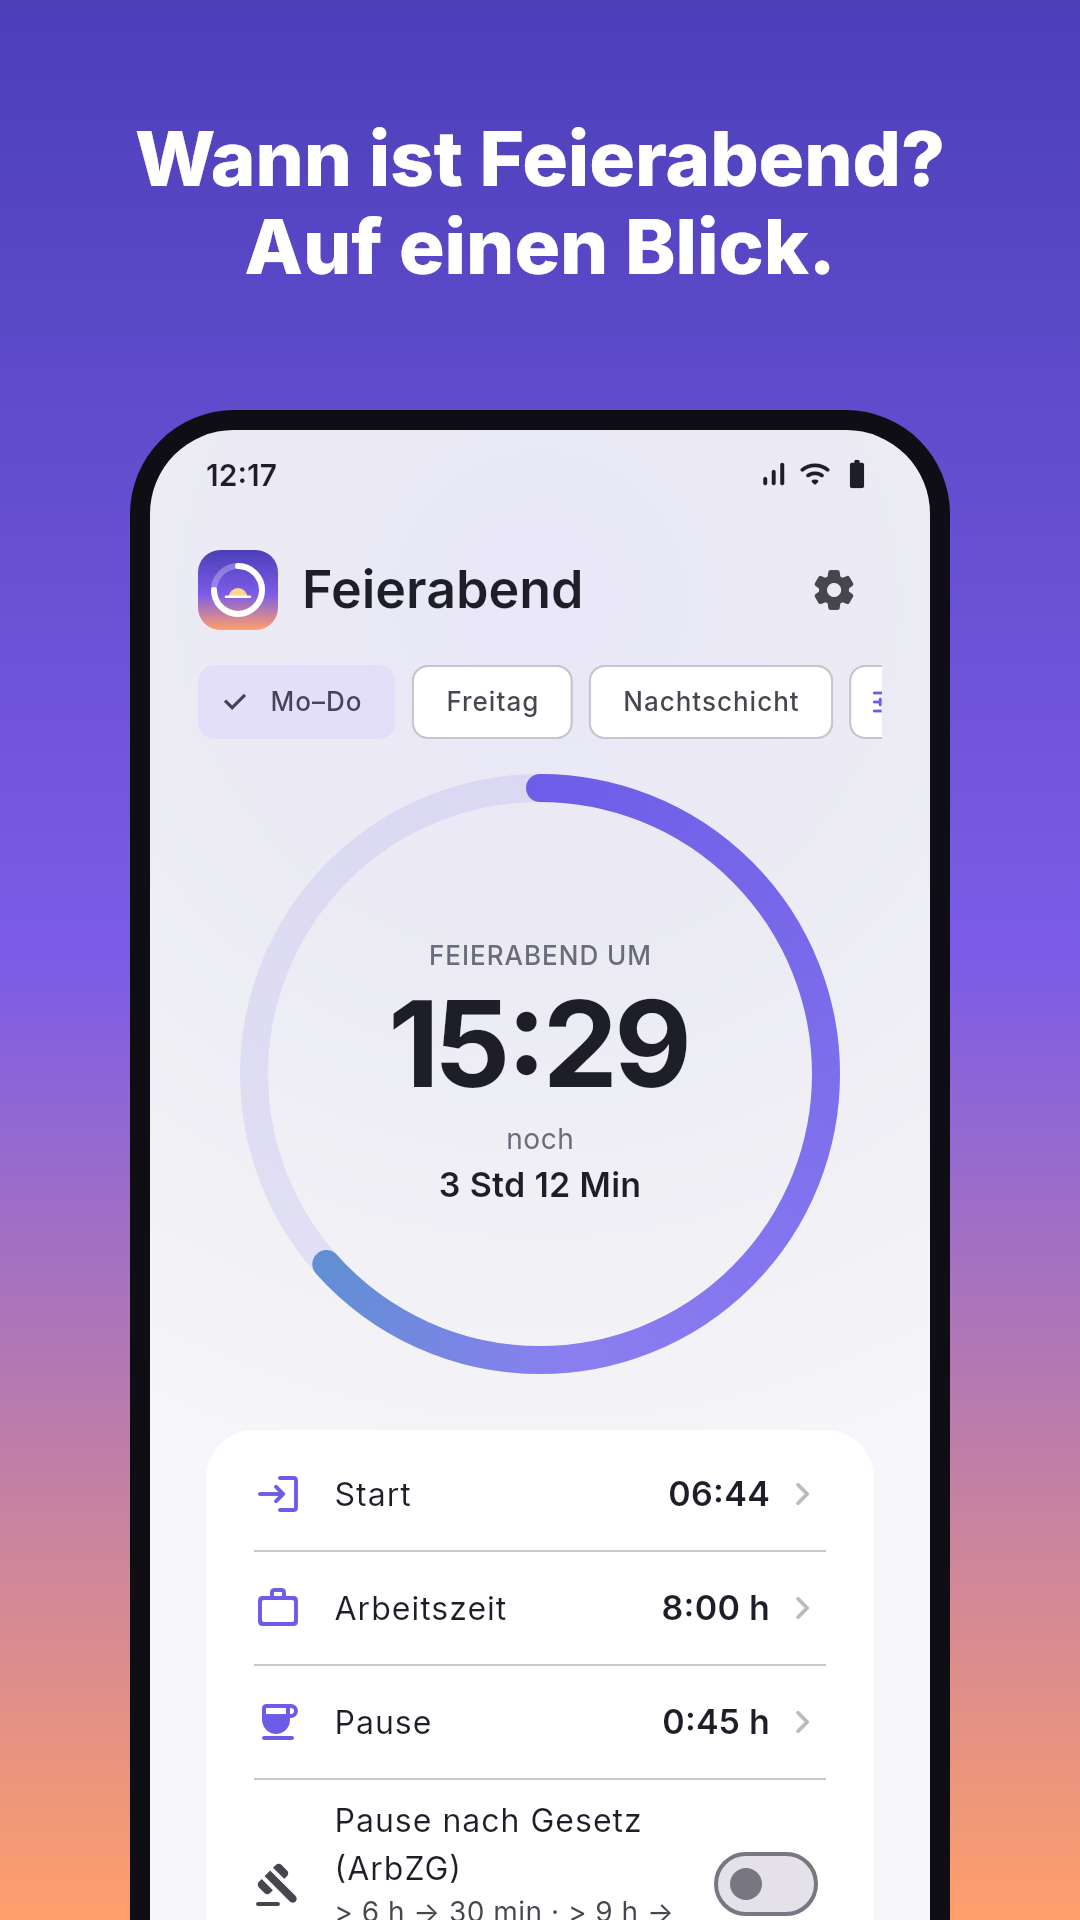
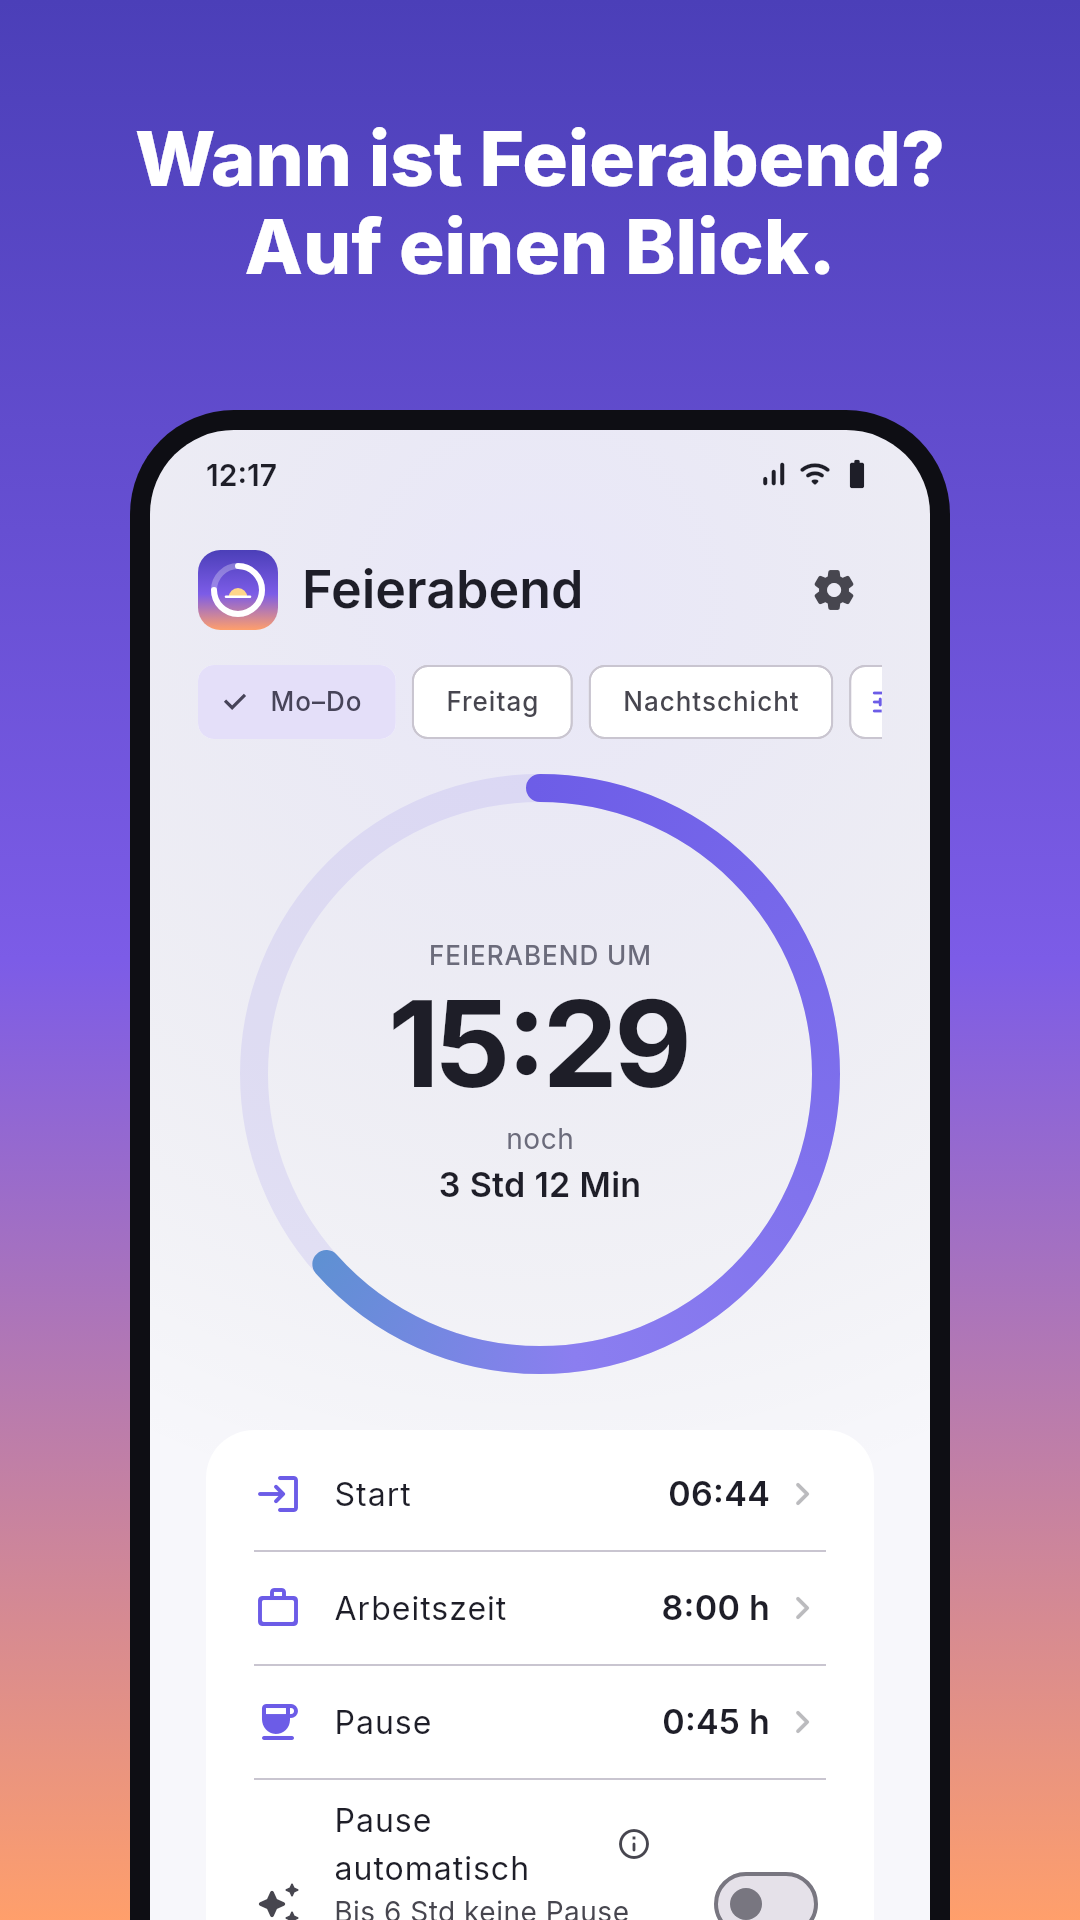
Pausen-Schalter freundlicher: „Pause automatisch" + Info-Fenster
- Statt „Pause nach Gesetz (ArbZG)" mit Paragraphen-Symbol: „Pause automatisch",
  Untertitel „Bis 6 Std keine Pause nötig – darüber passt sie sich an."
- ⓘ öffnet eine kurze Erklärung (bis 6 Std keine Pause, > 6 Std 30 Min,
  > 9 Std 45 Min, Grundlage § 4 ArbZG) – scrollbar auch auf kleinen Bildschirmen
- Paywall/Store-Texte entsprechend, Screenshots neu; 131 Tests grün

Claude-Session: https://claude.ai/code/session_01KcrAWKWuXtps6dG5YMC4Ev

Changed region(s): [[0.3056, 0.9375, 0.6111, 1.0], [0.6417, 0.9375, 0.7639, 1.0], [0.2444, 0.9688, 0.275, 1.0]]

diff --git a/lib/l10n/app_localizations.dart b/lib/l10n/app_localizations.dart
@@ -167,19 +167,19 @@ abstract class AppLocalizations {
   /// No description provided for @breakAuto.
   ///
   /// In de, this message translates to:
-  /// **'automatisch nach ArbZG'**
+  /// **'automatisch angepasst'**
   String get breakAuto;
 
   /// No description provided for @arbzgTitle.
   ///
   /// In de, this message translates to:
-  /// **'Pause nach Gesetz (ArbZG)'**
+  /// **'Pause automatisch'**
   String get arbzgTitle;
 
   /// No description provided for @arbzgSubtitle.
   ///
   /// In de, this message translates to:
-  /// **'> 6 h → 30 min · > 9 h → 45 min'**
+  /// **'Bis 6 Std keine Pause nötig – darüber passt sie sich an.'**
   String get arbzgSubtitle;
 
   /// No description provided for @presenceSummary.
@@ -551,7 +551,7 @@ abstract class AppLocalizations {
   /// No description provided for @paywallBenefitArbzg.
   ///
   /// In de, this message translates to:
-  /// **'Automatische Pause nach Arbeitszeitgesetz'**
+  /// **'Pause passt sich automatisch an'**
   String get paywallBenefitArbzg;
 
   /// No description provided for @paywallBenefitSupport.
@@ -949,6 +949,54 @@ abstract class AppLocalizations {
   /// In de, this message translates to:
   /// **'Wald'**
   String get designNameForest;
+
+  /// No description provided for @autoBreakInfoTooltip.
+  ///
+  /// In de, this message translates to:
+  /// **'Mehr Infos'**
+  String get autoBreakInfoTooltip;
+
+  /// No description provided for @autoBreakInfoTitle.
+  ///
+  /// In de, this message translates to:
+  /// **'So funktioniert die automatische Pause'**
+  String get autoBreakInfoTitle;
+
+  /// No description provided for @autoBreakInfoBody.
+  ///
+  /// In de, this message translates to:
+  /// **'Die App wählt die Pause passend zu deiner Arbeitszeit:'**
+  String get autoBreakInfoBody;
+
+  /// No description provided for @autoBreakUpTo6.
+  ///
+  /// In de, this message translates to:
+  /// **'Bis 6 Std Arbeit'**
+  String get autoBreakUpTo6;
+
+  /// No description provided for @autoBreakOver6.
+  ///
+  /// In de, this message translates to:
+  /// **'Mehr als 6 Std'**
+  String get autoBreakOver6;
+
+  /// No description provided for @autoBreakOver9.
+  ///
+  /// In de, this message translates to:
+  /// **'Mehr als 9 Std'**
+  String get autoBreakOver9;
+
+  /// No description provided for @autoBreakNone.
+  ///
+  /// In de, this message translates to:
+  /// **'keine Pause'**
+  String get autoBreakNone;
+
+  /// No description provided for @autoBreakLegal.
+  ///
+  /// In de, this message translates to:
+  /// **'Grundlage sind die Mindestpausen des deutschen Arbeitszeitgesetzes (§ 4 ArbZG). Die Pausenregel in deinem Betrieb kann abweichen.'**
+  String get autoBreakLegal;
 }
 
 class _AppLocalizationsDelegate

diff --git a/lib/features/home/widgets/auto_break_info_sheet.dart b/lib/features/home/widgets/auto_break_info_sheet.dart
@@ -1,0 +1,62 @@
+import 'package:flutter/material.dart';
+
+import '../../../core/formatting.dart';
+import '../../../l10n/l10n_ext.dart';
+
+/// Kurze Erklärung zur automatischen Pause – erst auf Wunsch (ⓘ), damit der
+/// Schalter selbst freundlich und schlicht bleibt.
+class AutoBreakInfoSheet extends StatelessWidget {
+  const AutoBreakInfoSheet({super.key});
+
+  static Future<void> show(BuildContext context) => showModalBottomSheet<void>(
+        context: context,
+        isScrollControlled: true,
+        builder: (_) => const AutoBreakInfoSheet(),
+      );
+
+  @override
+  Widget build(BuildContext context) {
+    final theme = Theme.of(context);
+    final l = context.l10n;
+    final u = context.units;
+
+    Widget rule(String when, String pause) => Padding(
+          padding: const EdgeInsets.symmetric(vertical: 8),
+          child: Row(
+            children: [
+              Expanded(child: Text(when, style: theme.textTheme.bodyLarge)),
+              Text(
+                pause,
+                style: theme.textTheme.titleMedium
+                    ?.copyWith(color: theme.colorScheme.primary),
+              ),
+            ],
+          ),
+        );
+
+    return SafeArea(
+      child: SingleChildScrollView(
+        padding: const EdgeInsets.fromLTRB(24, 0, 24, 24),
+        child: Column(
+          mainAxisSize: MainAxisSize.min,
+          crossAxisAlignment: CrossAxisAlignment.stretch,
+          children: [
+            Text(l.autoBreakInfoTitle, style: theme.textTheme.titleMedium),
+            const SizedBox(height: 8),
+            Text(l.autoBreakInfoBody, style: theme.textTheme.bodyMedium),
+            const SizedBox(height: 8),
+            rule(l.autoBreakUpTo6, l.autoBreakNone),
+            const Divider(height: 1),
+            rule(l.autoBreakOver6,
+                Formatting.durationLong(const Duration(minutes: 30), u)),
+            const Divider(height: 1),
+            rule(l.autoBreakOver9,
+                Formatting.durationLong(const Duration(minutes: 45), u)),
+            const SizedBox(height: 12),
+            Text(l.autoBreakLegal, style: theme.textTheme.bodyMedium),
+          ],
+        ),
+      ),
+    );
+  }
+}

diff --git a/lib/l10n/app_localizations_de.dart b/lib/l10n/app_localizations_de.dart
@@ -42,13 +42,14 @@ class AppLocalizationsDe extends AppLocalizations {
   String get breakLabel => 'Pause';
 
   @override
-  String get breakAuto => 'automatisch nach ArbZG';
+  String get breakAuto => 'automatisch angepasst';
 
   @override
-  String get arbzgTitle => 'Pause nach Gesetz (ArbZG)';
+  String get arbzgTitle => 'Pause automatisch';
 
   @override
-  String get arbzgSubtitle => '> 6 h → 30 min · > 9 h → 45 min';
+  String get arbzgSubtitle =>
+      'Bis 6 Std keine Pause nötig – darüber passt sie sich an.';
 
   @override
   String presenceSummary(String presence, String breakDuration) {
@@ -256,7 +257,7 @@ class AppLocalizationsDe extends AppLocalizations {
   String get paywallBenefitOvertime => 'Überstunden-Konto mit Wochenübersicht';
 
   @override
-  String get paywallBenefitArbzg => 'Automatische Pause nach Arbeitszeitgesetz';
+  String get paywallBenefitArbzg => 'Pause passt sich automatisch an';
 
   @override
   String get paywallBenefitSupport =>
@@ -481,4 +482,30 @@ class AppLocalizationsDe extends AppLocalizations {
 
   @override
   String get designNameForest => 'Wald';
+
+  @override
+  String get autoBreakInfoTooltip => 'Mehr Infos';
+
+  @override
+  String get autoBreakInfoTitle => 'So funktioniert die automatische Pause';
+
+  @override
+  String get autoBreakInfoBody =>
+      'Die App wählt die Pause passend zu deiner Arbeitszeit:';
+
+  @override
+  String get autoBreakUpTo6 => 'Bis 6 Std Arbeit';
+
+  @override
+  String get autoBreakOver6 => 'Mehr als 6 Std';
+
+  @override
+  String get autoBreakOver9 => 'Mehr als 9 Std';
+
+  @override
+  String get autoBreakNone => 'keine Pause';
+
+  @override
+  String get autoBreakLegal =>
+      'Grundlage sind die Mindestpausen des deutschen Arbeitszeitgesetzes (§ 4 ArbZG). Die Pausenregel in deinem Betrieb kann abweichen.';
 }

diff --git a/lib/l10n/app_localizations_en.dart b/lib/l10n/app_localizations_en.dart
@@ -42,13 +42,14 @@ class AppLocalizationsEn extends AppLocalizations {
   String get breakLabel => 'Break';
 
   @override
-  String get breakAuto => 'automatic (legal minimum)';
+  String get breakAuto => 'adjusted automatically';
 
   @override
-  String get arbzgTitle => 'Legal break (German law)';
+  String get arbzgTitle => 'Automatic break';
 
   @override
-  String get arbzgSubtitle => '> 6 h → 30 min · > 9 h → 45 min';
+  String get arbzgSubtitle =>
+      'Up to 6 h no break needed – above that it adapts.';
 
   @override
   String presenceSummary(String presence, String breakDuration) {
@@ -256,7 +257,7 @@ class AppLocalizationsEn extends AppLocalizations {
   String get paywallBenefitOvertime => 'Overtime account with weekly overview';
 
   @override
-  String get paywallBenefitArbzg => 'Automatic legal break calculation';
+  String get paywallBenefitArbzg => 'Break adjusts automatically';
 
   @override
   String get paywallBenefitSupport => 'Supports an independent developer';
@@ -477,4 +478,30 @@ class AppLocalizationsEn extends AppLocalizations {
 
   @override
   String get designNameForest => 'Forest';
+
+  @override
+  String get autoBreakInfoTooltip => 'More info';
+
+  @override
+  String get autoBreakInfoTitle => 'How the automatic break works';
+
+  @override
+  String get autoBreakInfoBody =>
+      'The app picks the break to match your work time:';
+
+  @override
+  String get autoBreakUpTo6 => 'Up to 6 h of work';
+
+  @override
+  String get autoBreakOver6 => 'More than 6 h';
+
+  @override
+  String get autoBreakOver9 => 'More than 9 h';
+
+  @override
+  String get autoBreakNone => 'no break';
+
+  @override
+  String get autoBreakLegal =>
+      'Based on the minimum breaks of the German Working Hours Act (§ 4 ArbZG). Your workplace rules may differ.';
 }

diff --git a/test/widget_test.dart b/test/widget_test.dart
@@ -108,7 +108,7 @@ void main() {
     expect(find.text('GESAMTSALDO'), findsNothing);
   });
 
-  testWidgets('Free: ArbZG-Schalter öffnet die Paywall statt einzuschalten',
+  testWidgets('Free: Auto-Pause-Schalter öffnet die Paywall statt einzuschalten',
       (tester) async {
     await tester.pumpWidget(await buildApp(pro: false));
     await tester.pump();
@@ -120,7 +120,29 @@ void main() {
     await tester.pumpAndSettle();
 
     expect(find.text('Feierabend Pro'), findsOneWidget);
-    expect(find.text('automatisch nach ArbZG'), findsNothing);
+    expect(find.text('automatisch angepasst'), findsNothing);
+  });
+
+  testWidgets('Auto-Pause: ⓘ erklärt die Regeln, ohne umzuschalten', (tester) async {
+    await tester.pumpWidget(await buildApp());
+    await tester.pump();
+
+    expect(find.text('Pause automatisch'), findsOneWidget);
+    final info = find.byTooltip('Mehr Infos');
+    await tester.ensureVisible(info);
+    await tester.pumpAndSettle();
+    await tester.tap(info);
+    await tester.pumpAndSettle();
+
+    expect(find.text('So funktioniert die automatische Pause'), findsOneWidget);
+    expect(find.text('Bis 6 Std Arbeit'), findsOneWidget);
+    expect(find.text('keine Pause'), findsOneWidget);
+    expect(find.text('30 Min'), findsOneWidget);
+    expect(find.text('45 Min'), findsOneWidget);
+    // Schalter unverändert aus.
+    final toggle =
+        tester.widget<SwitchListTile>(find.byType(SwitchListTile).first);
+    expect(toggle.value, isFalse);
   });
 
   testWidgets('Paywall zeigt Store-Preis und startet den Kauf', (tester) async {

diff --git a/lib/features/home/home_screen.dart b/lib/features/home/home_screen.dart
@@ -12,6 +12,7 @@ import '../pro/paywall_sheet.dart';
 import '../pro/pro_providers.dart';
 import '../settings/settings_sheet.dart';
 import 'state/home_providers.dart';
+import 'widgets/auto_break_info_sheet.dart';
 import 'widgets/countdown_ring.dart';
 import 'widgets/duration_adjust_sheet.dart';
 import 'widgets/overtime_card.dart';
@@ -243,11 +244,19 @@ class _InputCard extends ConsumerWidget {
             const Divider(height: 1, indent: 16, endIndent: 16),
             SwitchListTile(
               contentPadding: const EdgeInsets.symmetric(horizontal: 16),
-              secondary: const Icon(Icons.gavel_rounded),
+              secondary: const Icon(Icons.auto_awesome_rounded),
               title: Row(
                 children: [
                   Flexible(child: Text(l.arbzgTitle)),
-                  if (!isPro) ...[const SizedBox(width: 8), const ProBadge()],
+                  // Details zum Gesetz nur auf Wunsch – der Schalter bleibt schlicht.
+                  IconButton(
+                    tooltip: l.autoBreakInfoTooltip,
+                    visualDensity: VisualDensity.compact,
+                    iconSize: 18,
+                    icon: const Icon(Icons.info_outline_rounded),
+                    onPressed: () => AutoBreakInfoSheet.show(context),
+                  ),
+                  if (!isPro) const ProBadge(),
                 ],
               ),
               subtitle: Text(l.arbzgSubtitle),

diff --git a/store/STORE_EINTRAG.md b/store/STORE_EINTRAG.md
@@ -48,7 +48,7 @@ ALLES INDIVIDUELL
 FEIERABEND PRO – EINMALIG, KEIN ABO
 • Unbegrenzt Profile, z. B. Mo–Do, Freitag, Nachtschicht
 • Überstunden-Konto mit Wochenübersicht und „Heute buchen" per Fingertipp
-• Automatische Pause nach Arbeitszeitgesetz (über 6 Std → 30 Min, über 9 Std → 45 Min)
+• Pause passt sich automatisch an: bis 6 Std keine Pause nötig, darüber genau passend
 • Eigene Erinnerungen: z. B. 1 Std vorher, zur Halbzeit und pünktlich zum Feierabend – mit lustigem Spruch
 • Live-Countdown direkt im Widget auf dem Startbildschirm
 • Keine Werbung
@@ -73,7 +73,7 @@ Feierabend. Auf einen Blick.
 
 **Versionshinweise 1.0.0**
 ```
-Die erste Version ist da: Feierabend-Uhrzeit mit Live-Countdown, Schnellwahl „6 Std ohne Pause", Profile, Überstunden-Konto, Erinnerungen, Home-Screen-Widget, Pause nach Arbeitszeitgesetz, lustige Sprüche für deinen Beruf und Dark Mode.
+Die erste Version ist da: Feierabend-Uhrzeit mit Live-Countdown, Schnellwahl „6 Std ohne Pause", Profile, Überstunden-Konto, Erinnerungen, Home-Screen-Widget, automatische Pause, lustige Sprüche für deinen Beruf und Dark Mode.
 ```
 
 ---
@@ -110,7 +110,7 @@ MAKE IT YOURS
 CLOCK-OUT PRO – ONE-TIME, NO SUBSCRIPTION
 • Unlimited profiles, e.g. Mon–Thu, Friday, Night shift
 • Overtime account with weekly overview and one-tap “Book today”
-• Automatic legal break calculation based on the German Working Hours Act (over 6 h → 30 min, over 9 h → 45 min)
+• Break adjusts automatically: no break needed up to 6 h, just the right one above that
 • Your own reminders: e.g. 1 h before, at halftime and right at clock-out – with a fun quote
 • Live countdown right in the home screen widget
 • No ads
